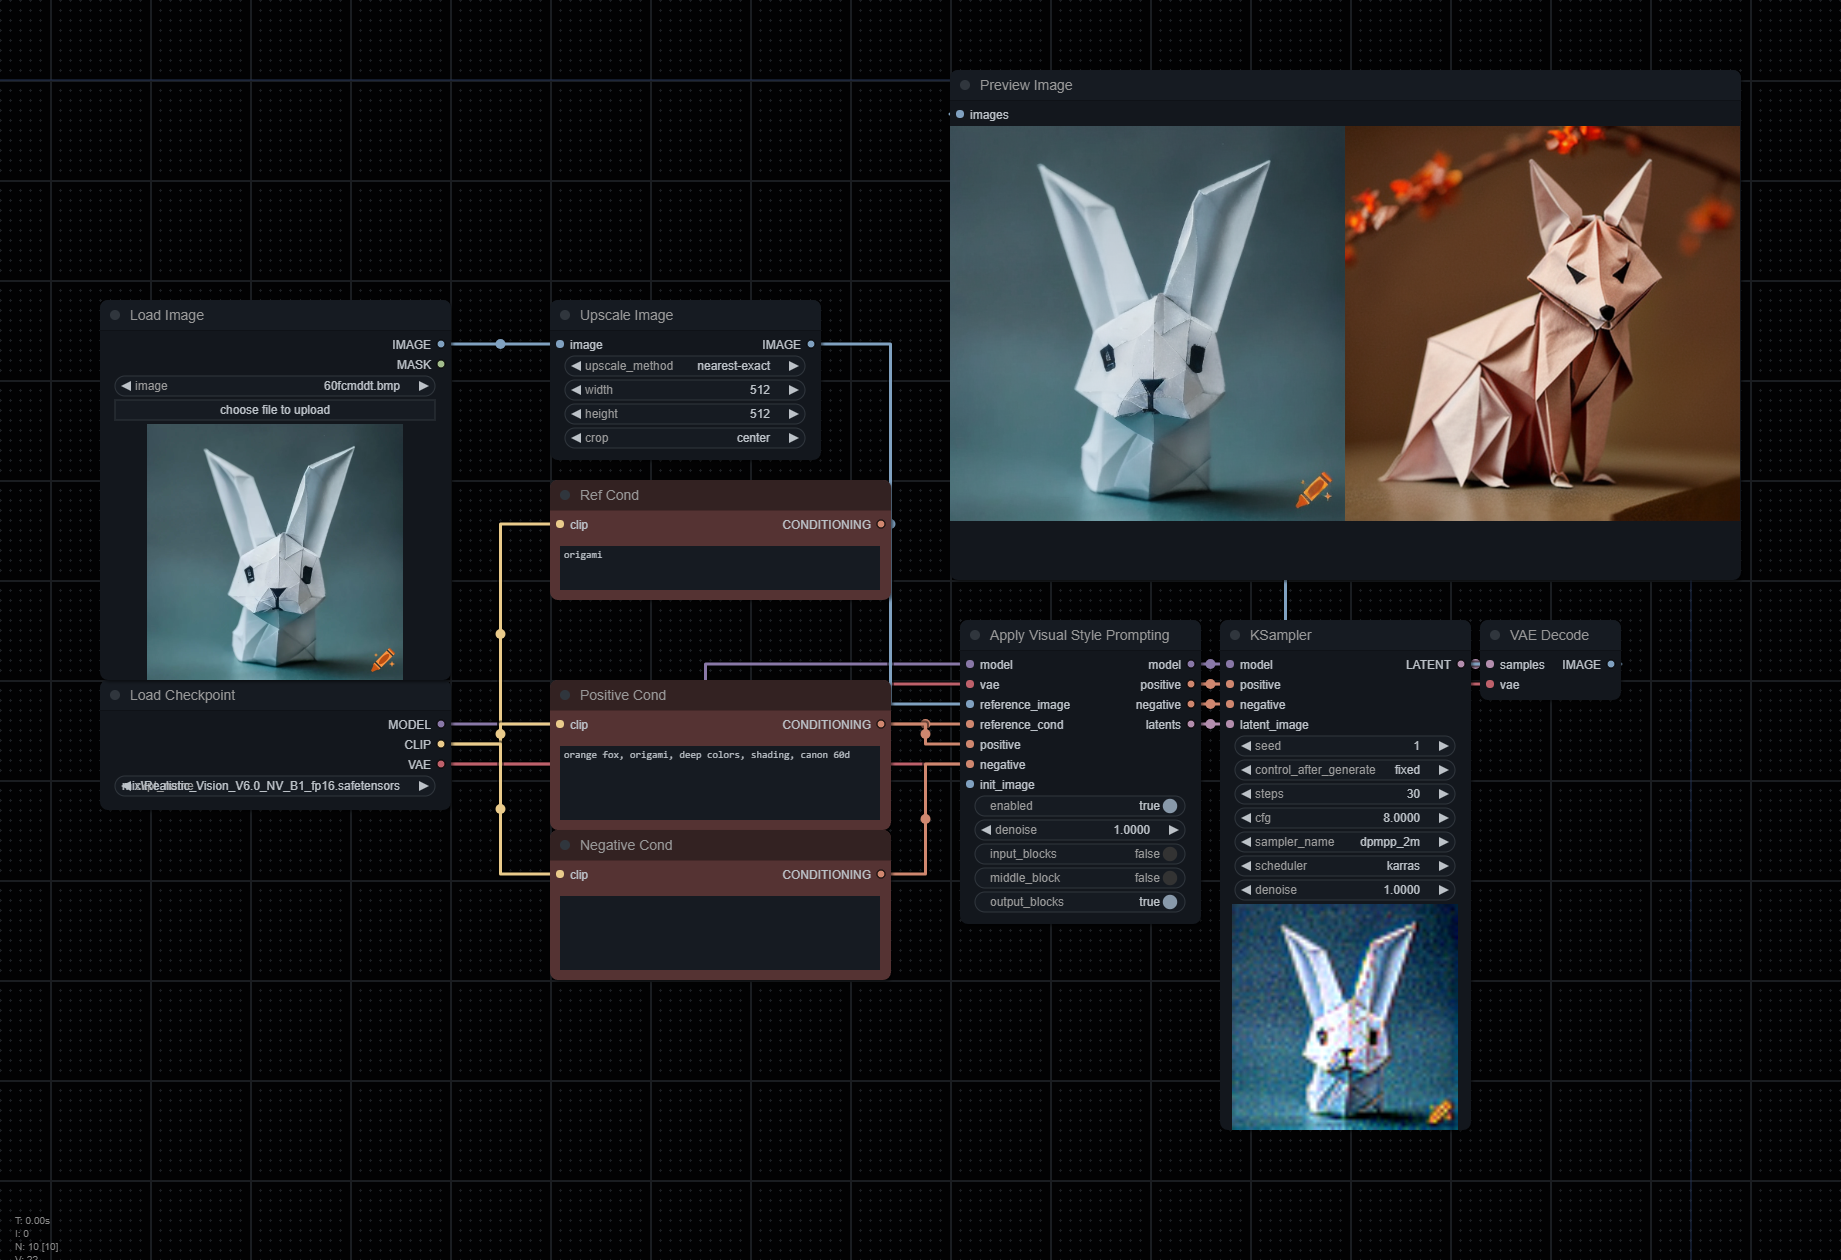
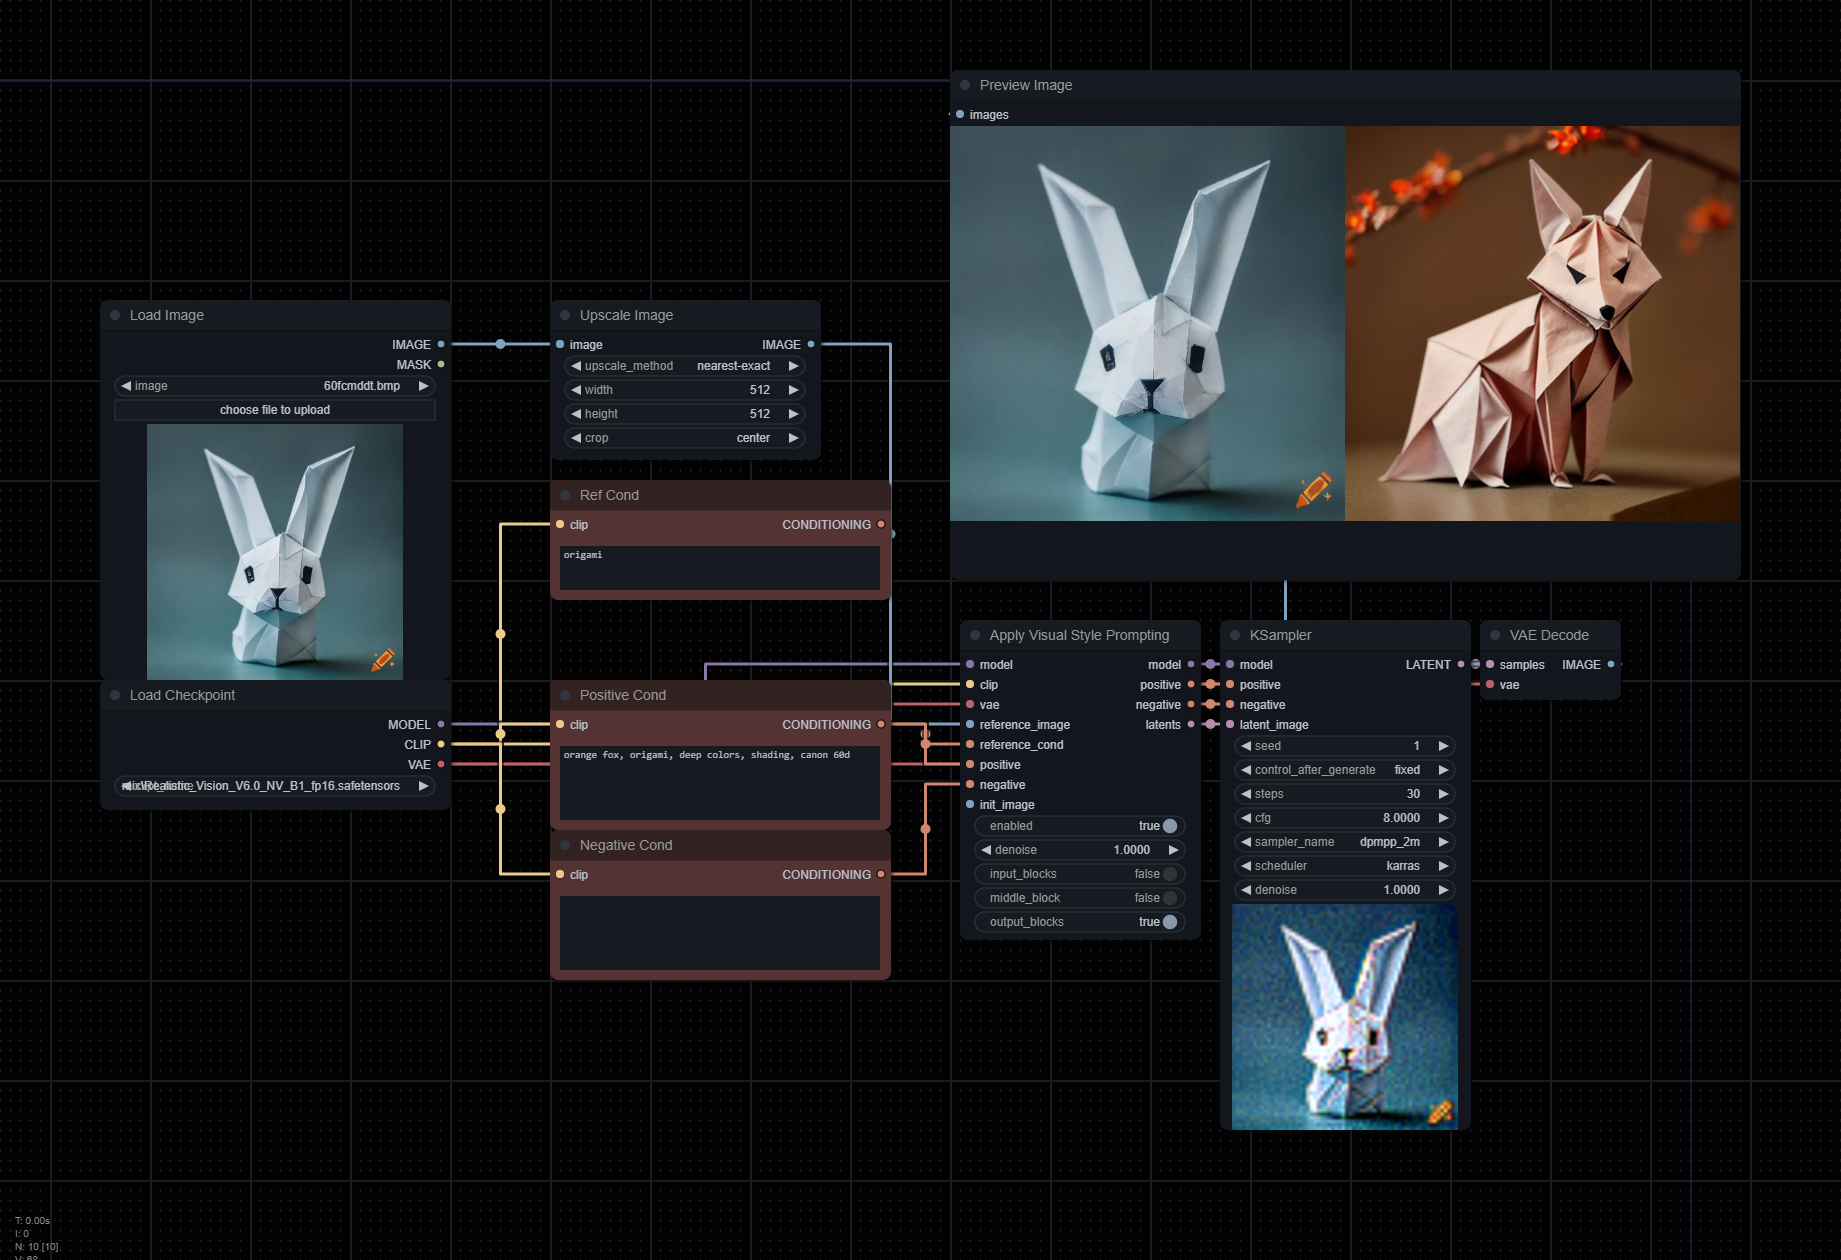
Conditional padding

Changed region(s): [[0.4954, 0.5571, 0.6502, 0.7738]]

diff --git a/nodes.py b/nodes.py
@@ -2,7 +2,7 @@ import comfy
 import torch
 
 from .utils.attention_functions import VisualStyleProcessor
-from .utils.cond_functions import copy_cond
+from .utils.cond_functions import cat_cond
 
 
 class ApplyVisualStyle:
@@ -11,6 +11,7 @@ class ApplyVisualStyle:
         return {
             "required": {
                 "model": ("MODEL",),
+                "clip": ("CLIP", ),
                 "vae": ("VAE", ),
                 "reference_image": ("IMAGE",),
                 "reference_cond": ("CONDITIONING",),
@@ -54,6 +55,7 @@ class ApplyVisualStyle:
     def apply_visual_style_prompt(
         self,
         model: comfy.model_patcher.ModelPatcher,
+        clip,
         vae,
         reference_image,
         reference_cond,
@@ -66,10 +68,6 @@ class ApplyVisualStyle:
         output_blocks,
         init_image = None
     ):
-        positive = copy_cond(positive)
-        reference_cond = copy_cond(reference_cond)
-        negative = copy_cond(negative)
-
         reference_latent = vae.encode(reference_image[:,:,:,:3])
 
         block_choices = self.get_block_choices(input_blocks, middle_block, output_blocks)
@@ -84,8 +82,8 @@ class ApplyVisualStyle:
                     processor = VisualStyleProcessor(m, enabled=is_enabled)
                     setattr(m, 'forward', processor)
 
-        positive[0][0] = torch.cat([reference_cond[0][0], positive[0][0]])
-        negative[0][0] = torch.cat([negative[0][0]] * 2)
+        positive_cat = cat_cond(clip, reference_cond, positive)
+        negative_cat = cat_cond(clip, negative, negative)
 
         latents = torch.zeros_like(reference_latent)
         latents = torch.cat([latents] * 2)
@@ -99,7 +97,7 @@ class ApplyVisualStyle:
 
         denoise_mask[::2] = 0.
 
-        return (model, positive, negative, {"samples": latents, "noise_mask": denoise_mask})
+        return (model, positive_cat, negative_cat, {"samples": latents, "noise_mask": denoise_mask})
 
 NODE_CLASS_MAPPINGS = {
     "ApplyVisualStyle": ApplyVisualStyle,

diff --git a/utils/cond_functions.py b/utils/cond_functions.py
@@ -1,7 +1,9 @@
 import torch
 
+EMPTY_PROMPT = ""
 
-def copy_cond(cond: list[list[torch.Tensor | dict]], device="cpu"):
+
+def copy_cond(cond: list[tuple[torch.Tensor, dict]], device="cpu") -> list[list[torch.Tensor | dict]]:
     cond_copy = [[]]
     t_copy = cond_copy[0]
     for t in cond:
@@ -11,3 +13,25 @@ def copy_cond(cond: list[list[torch.Tensor | dict]], device="cpu"):
             if "pooled_output" in t[1]:
                 t_copy[1]["pooled_output"] = t[1]["pooled_output"].detach().clone().to(device=device)
     return cond_copy
+
+
+def cat_cond(clip, *conds: list[list[torch.Tensor | dict]], device="cpu") -> list[list[torch.Tensor | dict]]:
+    output = copy_cond(conds[0], device=device)
+    cond_tensors = list(map(lambda c: c[0][0], conds))
+
+    chunk_size = 77
+    chunks = list(map(lambda c: c.shape[1] // chunk_size, cond_tensors))
+    chunk_min, chunk_max = min(chunks), max(chunks)
+
+    if chunk_min != chunk_max:
+        empty_tokens = clip.tokenize(EMPTY_PROMPT)
+        empty_cond: torch.Tensor = clip.encode_from_tokens(empty_tokens, return_pooled=False)
+
+        for i, cond in enumerate(cond_tensors):
+            chunk_count = chunks[i]
+            empty_pad = empty_cond.repeat(1, chunk_max - chunk_count, 1)
+            cond_tensors[i] = torch.cat([cond.to(device=device), empty_pad.to(device=device)], dim=1)
+
+    output[0][0] = torch.cat(cond_tensors).to(device=device)
+
+    return output

diff --git a/README.md b/README.md
@@ -25,9 +25,6 @@ This has currently only been tested with 1.5 based models.
 - `middle_block`: Focuses attention on the middle layers.
 - `output_blocks`: Focuses attention on the decoder layers.
 
-> [!NOTE]
-> `positive` and `reference_cond` must have equal amount of chunks. Mismatch will cause `RuntimeError: Sizes of tensors must match except in dimension 0.`
-
 > [!TIP]
 > In order to get the best results (matching legacy functionality), you must use the same prompt for `positive` and `reference_cond`.
 >
